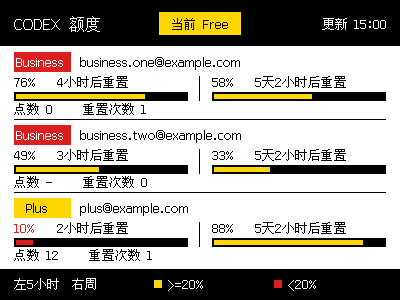
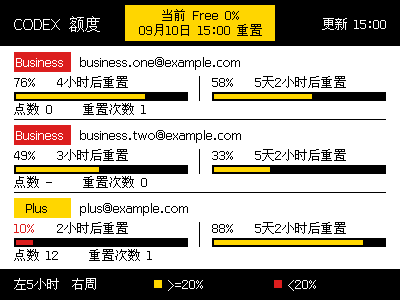
在看板页头显示 Free 额度重置时间

Changed region(s): [[0.3, 0.0, 0.69, 0.15]]

diff --git a/relay/src/quota_relay.rs b/relay/src/quota_relay.rs
@@ -188,6 +188,12 @@ pub struct PaidAccountQuota {
     pub reset_credits: Option<i64>,
 }
 
+#[derive(Clone, Copy, Debug, Eq, PartialEq)]
+pub enum ActiveFreeQuota {
+    Unknown,
+    Window { remaining: u8, resets_at: i64 },
+}
+
 impl CodexAuthRegistry {
     pub fn read(path: impl AsRef<Path>) -> Result<Self, QuotaRelayError> {
         let registry: Self = serde_json::from_slice(&fs::read(path)?)?;
@@ -254,10 +260,32 @@ impl CodexAuthRegistry {
         self.active_account_key.as_deref() == Some(account.account_key.as_str())
     }
 
-    pub fn active_is_free(&self) -> bool {
-        self.accounts
+    pub fn active_free_quota(&self) -> Option<ActiveFreeQuota> {
+        let account = self
+            .accounts
             .iter()
-            .any(|account| self.is_active(account) && account.plan() == Some("free"))
+            .find(|account| self.is_active(account) && account.plan() == Some("free"))?;
+        let window = account
+            .last_usage
+            .as_ref()
+            .filter(|usage| usage.plan_type.as_deref() == Some("free"))
+            .and_then(|usage| usage.primary.as_ref())
+            .and_then(CodexAuthWindow::remaining_and_reset);
+        Some(match window {
+            Some((remaining, resets_at)) => ActiveFreeQuota::Window {
+                remaining,
+                resets_at,
+            },
+            None => ActiveFreeQuota::Unknown,
+        })
+    }
+}
+
+impl CodexAuthWindow {
+    fn remaining_and_reset(&self) -> Option<(u8, i64)> {
+        let resets_at = self.resets_at?;
+        (resets_at > 0 && (0.0..=100.0).contains(&self.used_percent))
+            .then_some(((100.0 - self.used_percent) as u8, resets_at))
     }
 }
 
@@ -353,14 +381,9 @@ fn quota_window(
     label: &str,
     window: &CodexAuthWindow,
 ) -> Result<(u8, i64), QuotaRelayError> {
-    if let Some(resets_at) = window.resets_at {
-        if resets_at > 0 && (0.0..=100.0).contains(&window.used_percent) {
-            return Ok(((100.0 - window.used_percent) as u8, resets_at));
-        }
-    }
-    Err(QuotaRelayError::InvalidRegistry(format!(
-        "{email} 的{label}额度窗口无效"
-    )))
+    window
+        .remaining_and_reset()
+        .ok_or_else(|| QuotaRelayError::InvalidRegistry(format!("{email} 的{label}额度窗口无效")))
 }
 
 pub fn validate_freshness(
@@ -405,7 +428,7 @@ pub fn apply_account_labels(
 pub fn render_paid_accounts(
     accounts: &[PaidAccountQuota],
     generated_at: i64,
-    active_is_free: bool,
+    active_free_quota: Option<ActiveFreeQuota>,
 ) -> Result<BwryFrame, QuotaRelayError> {
     if accounts.len() != 3 {
         return Err(QuotaRelayError::Render(
@@ -436,17 +459,20 @@ pub fn render_paid_accounts(
         HorizontalAlignment::Right,
         BwryColor::White,
     )?;
-    if active_is_free {
-        frame.fill(159, 12, 82, 23, BwryColor::Yellow);
-        draw_text_aligned(
-            &mut frame,
-            &small_font,
-            "当前 Free",
-            200,
-            29,
-            HorizontalAlignment::Center,
-            BwryColor::Black,
-        )?;
+    if let Some(quota) = active_free_quota {
+        let (title, detail) = format_active_free_quota(quota, generated_at);
+        frame.fill(125, 5, 150, 36, BwryColor::Yellow);
+        for (line, y) in [(&title, 20), (&detail, 35)] {
+            draw_text_aligned(
+                &mut frame,
+                &small_font,
+                line,
+                200,
+                y,
+                HorizontalAlignment::Center,
+                BwryColor::Black,
+            )?;
+        }
     }
 
     for (index, account) in accounts.iter().enumerate() {
@@ -665,6 +691,32 @@ fn fit_text(font: &FontRenderer, content: &str, max_width: i32) -> String {
 fn format_sync_time(timestamp: i64) -> String {
     let time = local_tm(timestamp);
     format!("更新 {:02}:{:02}", time.tm_hour, time.tm_min)
+}
+
+fn format_active_free_quota(quota: ActiveFreeQuota, now: i64) -> (String, String) {
+    let ActiveFreeQuota::Window {
+        remaining,
+        resets_at,
+    } = quota
+    else {
+        return ("当前 Free".into(), "重置时间未知".into());
+    };
+    if resets_at <= now {
+        return ("当前 Free".into(), "重置待确认".into());
+    }
+    let detail = if remaining == 100 {
+        "额度可用".into()
+    } else {
+        let time = local_tm(resets_at);
+        format!(
+            "{:02}月{:02}日 {:02}:{:02} 重置",
+            time.tm_mon + 1,
+            time.tm_mday,
+            time.tm_hour,
+            time.tm_min
+        )
+    };
+    (format!("当前 Free {remaining}%"), detail)
 }
 
 fn format_reset(resets_at: i64, now: i64) -> String {
@@ -966,7 +1018,7 @@ mod tests {
 
     #[test]
     fn frame_is_exact_note4c_bwry_size_and_palette_order() {
-        let frame = render_paid_accounts(&accounts(), 1_790_000_000, false).unwrap();
+        let frame = render_paid_accounts(&accounts(), 1_790_000_000, None).unwrap();
         assert_eq!(frame.packed_bytes().len(), 30_000);
         assert_eq!(frame.packed_bytes()[0], 0);
         assert_eq!(quota_color(100), BwryColor::Yellow);
@@ -980,7 +1032,7 @@ mod tests {
 
     #[test]
     fn manifest_is_content_addressed() {
-        let frame = render_paid_accounts(&accounts(), 1_790_000_000, false).unwrap();
+        let frame = render_paid_accounts(&accounts(), 1_790_000_000, None).unwrap();
         let manifest = build_manifest(&frame, 1_790_000_000);
         assert_eq!(manifest.revision, frame.sha256());
         assert_eq!(
@@ -1044,6 +1096,36 @@ mod tests {
         assert_eq!(format_reset(7_200, 0), "2小时后重置");
         assert_eq!(format_reset(432_000, 0), "5天后重置");
         assert_eq!(format_reset(439_200, 0), "5天2小时后重置");
+    }
+
+    #[test]
+    fn free_status_separates_available_exhausted_and_expired_windows() {
+        let mut registry: CodexAuthRegistry =
+            serde_json::from_str(include_str!("../tests/fixtures/registry.sample.json")).unwrap();
+        let now = 1_786_431_600;
+        let quota = registry.active_free_quota().unwrap();
+        let (title, detail) = format_active_free_quota(quota, now);
+        assert_eq!(title, "当前 Free 0%");
+        assert!(detail.ends_with(" 重置"));
+        assert_eq!(
+            format_active_free_quota(quota, 1_789_023_600).1,
+            "重置待确认"
+        );
+
+        let free = registry
+            .accounts
+            .iter_mut()
+            .find(|a| a.account_key == "free-a")
+            .unwrap();
+        free.last_usage
+            .as_mut()
+            .unwrap()
+            .primary
+            .as_mut()
+            .unwrap()
+            .used_percent = 0.0;
+        let quota = registry.active_free_quota().unwrap();
+        assert_eq!(format_active_free_quota(quota, now).1, "额度可用");
     }
 
     #[test]

diff --git a/relay/src/bin/codex-note4c-relay.rs b/relay/src/bin/codex-note4c-relay.rs
@@ -35,7 +35,8 @@ fn run() -> Result<(), Box<dyn std::error::Error>> {
             ensure_no_args(args)?;
             let registry = CodexAuthRegistry::read(registry)?;
             let accounts = registry.cached_quotas(3)?;
-            let frame = render_paid_accounts(&accounts, generated_at, registry.active_is_free())?;
+            let frame =
+                render_paid_accounts(&accounts, generated_at, registry.active_free_quota())?;
             fs::write(&output_bin, frame.packed_bytes())?;
             fs::write(&output_png, frame.png_bytes()?)?;
             println!(
@@ -120,7 +121,7 @@ fn sync(
 
     apply_account_labels(&mut accounts, &config.account_labels)?;
     let generated_at = now()?;
-    let frame = render_paid_accounts(&accounts, generated_at, registry.active_is_free())?;
+    let frame = render_paid_accounts(&accounts, generated_at, registry.active_free_quota())?;
     let manifest = build_manifest(&frame, generated_at);
     write_local_state(&config.state_directory, &frame, &manifest)?;
     if let Some(publisher) = &config.publisher {
@@ -449,7 +450,10 @@ mod tests {
             observed_at,
         )
         .unwrap();
-        assert!(registry.active_is_free());
+        assert_eq!(
+            registry.active_free_quota(),
+            Some(note4c_codex_quota_dashboard::quota_relay::ActiveFreeQuota::Unknown)
+        );
         assert!(quotas.iter().all(|quota| !quota.active));
         assert_eq!(quotas[0].observed_at, observed_at);
         assert_eq!(quotas[0].five_hour_remaining_percent, 76);

diff --git a/README.zh-CN.md b/README.zh-CN.md
@@ -1,6 +1,6 @@
 # NOTE4C Codex 多账号额度看板
 
-这是一个面向 **ZECTRIX NOTE4C 4C 四色墨水屏**的自托管 Codex 额度看板。它固定显示 3 个 Business / Plus 账号的 5 小时额度、周额度、点数和可用重置次数。当前选中付费账号时标记对应行，选中 Free 时在页头显示「当前 Free」。
+这是一个面向 **ZECTRIX NOTE4C 4C 四色墨水屏**的自托管 Codex 额度看板。它固定显示 3 个 Business / Plus 账号的 5 小时额度、周额度、点数和可用重置次数。当前选中付费账号时标记对应行，选中 Free 时在页头显示剩余额度和重置时间。
 
 ![使用虚构账号生成的示例画面](docs/images/dashboard-sample.png)
 
@@ -70,6 +70,7 @@ sequenceDiagram
 - 强制刷新依据本次 API 结果，三个付费账号都成功才发布。Free 账号刷新失败时，付费画面仍可更新。
 - 每个账号左半段显示 5 小时剩余百分比、重置倒计时和进度条，右半段显示周剩余百分比、重置倒计时和进度条。
 - 点数和重置次数缺失时显示 `-`，收到零值时显示 `0`。
+- 选中 Free 时，额度尚未使用会显示「额度可用」，已有使用量会显示剩余百分比和重置日期。已到重置时间但尚未取得新额度时，显示「重置待确认」。
 - 5 小时或周额度窗口缺失、字段无效时保留上一张成功画面。
 - NOTE4C 默认每 5 分钟检查一次，但只有 revision 改变才全刷墨水屏。
 

diff --git a/README.md b/README.md
@@ -15,7 +15,7 @@ After setup, run `note4c-quota-refresh` at any time to force a quota refresh and
 - Fixed three-account layout for Business and Plus plans.
 - Shows both five-hour and weekly remaining percentages, reset countdowns, and progress bars for every paid account.
 - Shows credit balance and available reset credits, with a dash for missing values.
-- Marks the selected paid workspace or shows a Free indicator in the header.
+- Marks the selected paid workspace or shows remaining Free quota and its next reset in the header.
 - Yellow quota at 20% or above, red below 20%.
 - Workday quarter-hour scheduling and registry-change updates on macOS.
 - Failed refreshes never replace the last successful frame.
